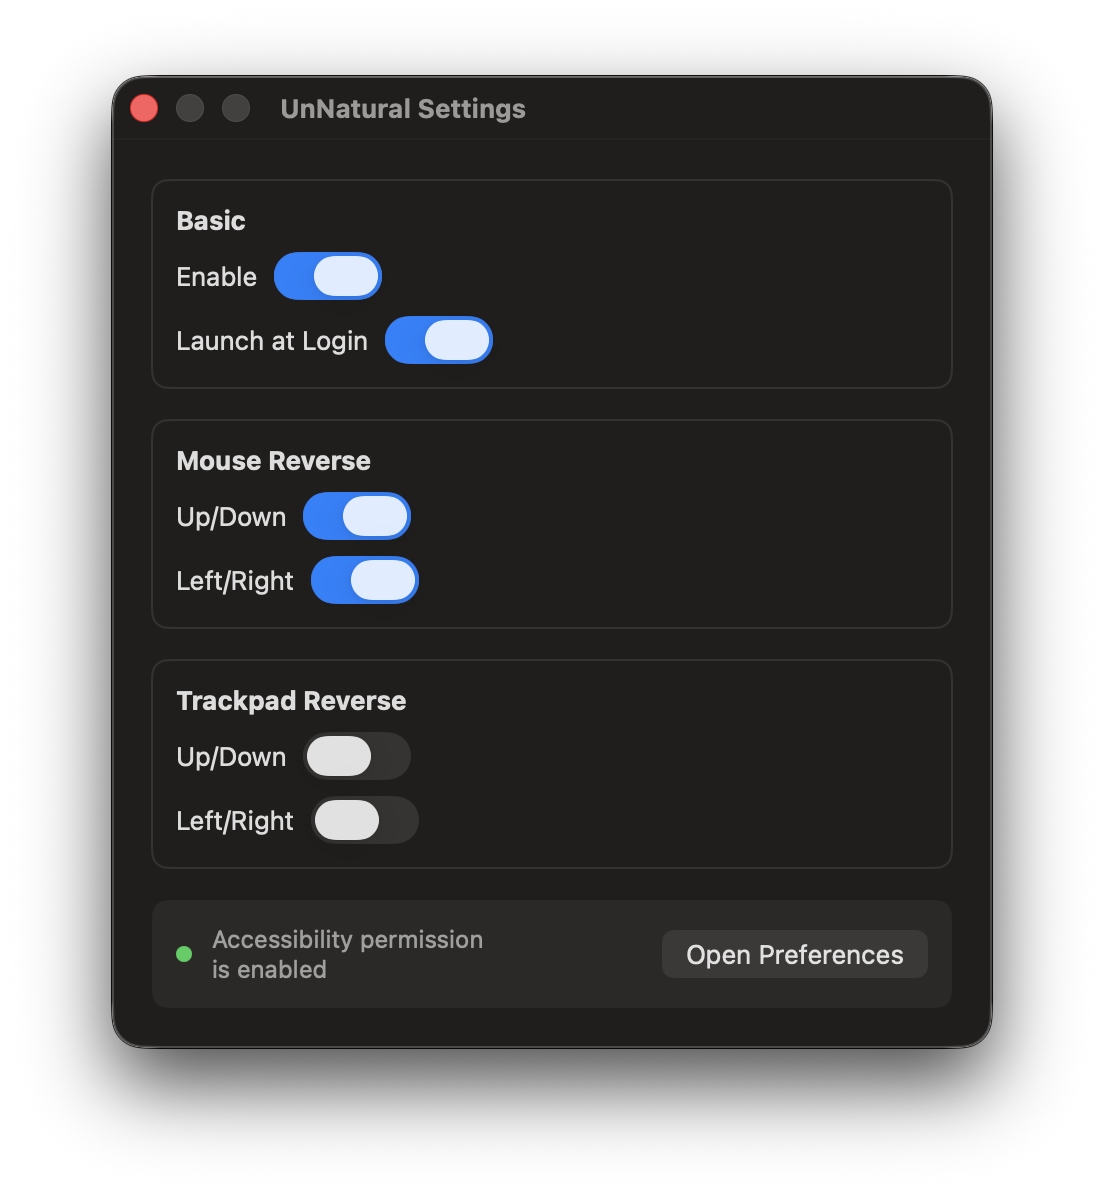
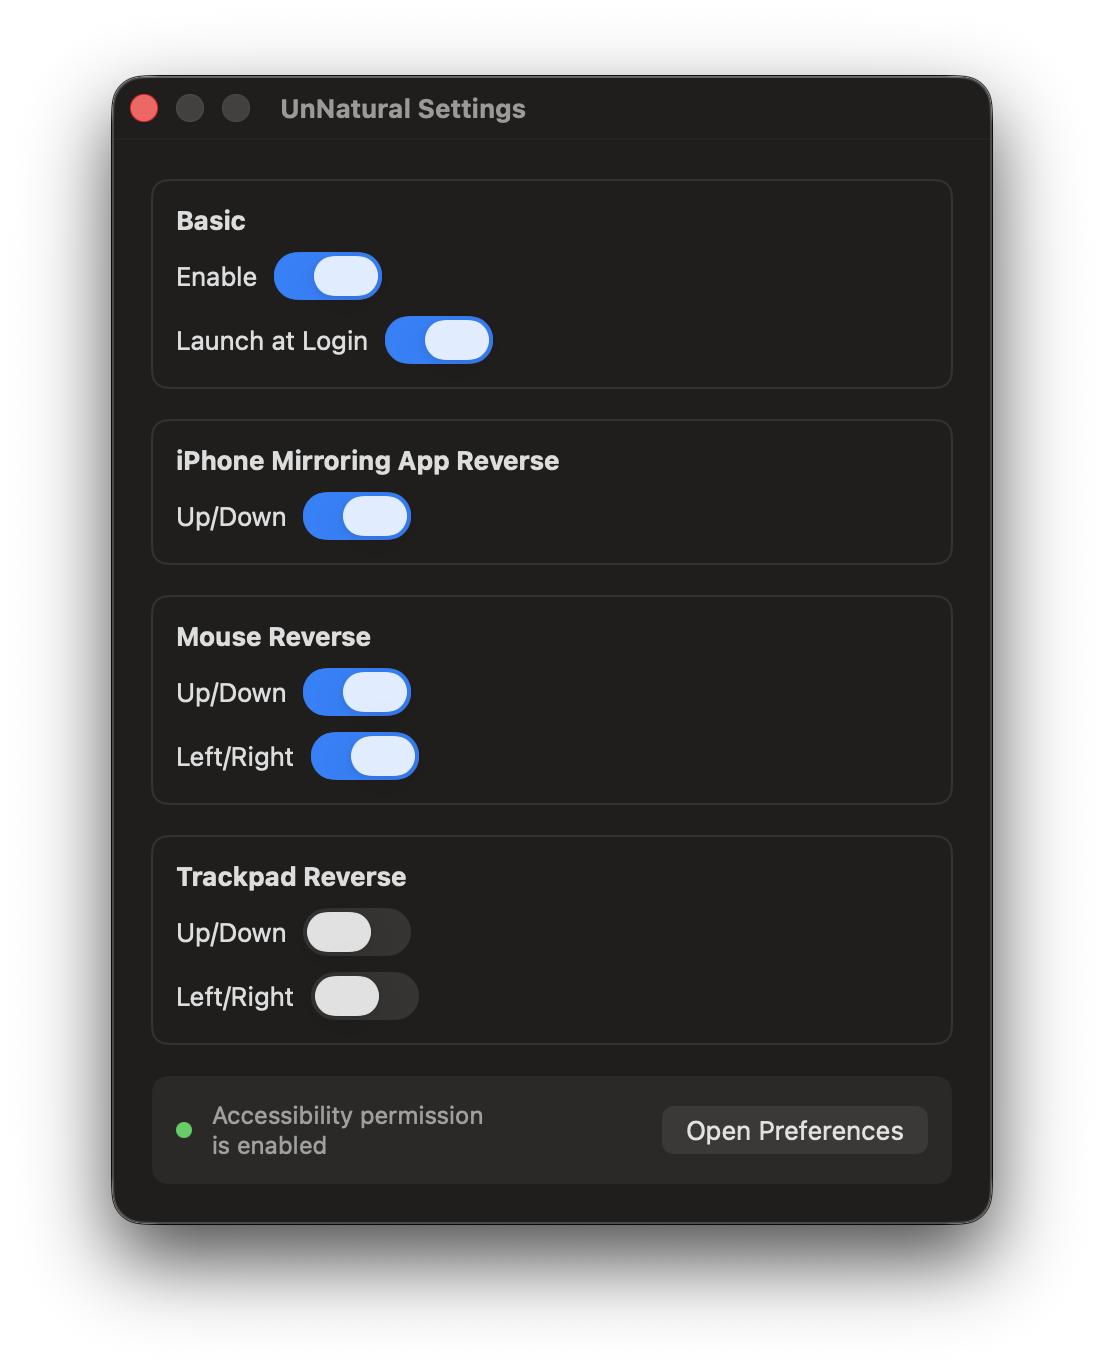
fix: settings title

diff --git a/UnNatural/SettingsView.swift b/UnNatural/SettingsView.swift
@@ -18,7 +18,7 @@ struct SettingsView: View {
                 Toggle("Launch at Login", isOn: $settings.launchAtLogin)
             }
 
-            SettingsSection(title: "HID Reverse") {
+            SettingsSection(title: "iPhone Mirroring App Reverse") {
                 Toggle("Up/Down", isOn: $settings.reverseHid)
                     .disabled(!settings.isActive)
             }
